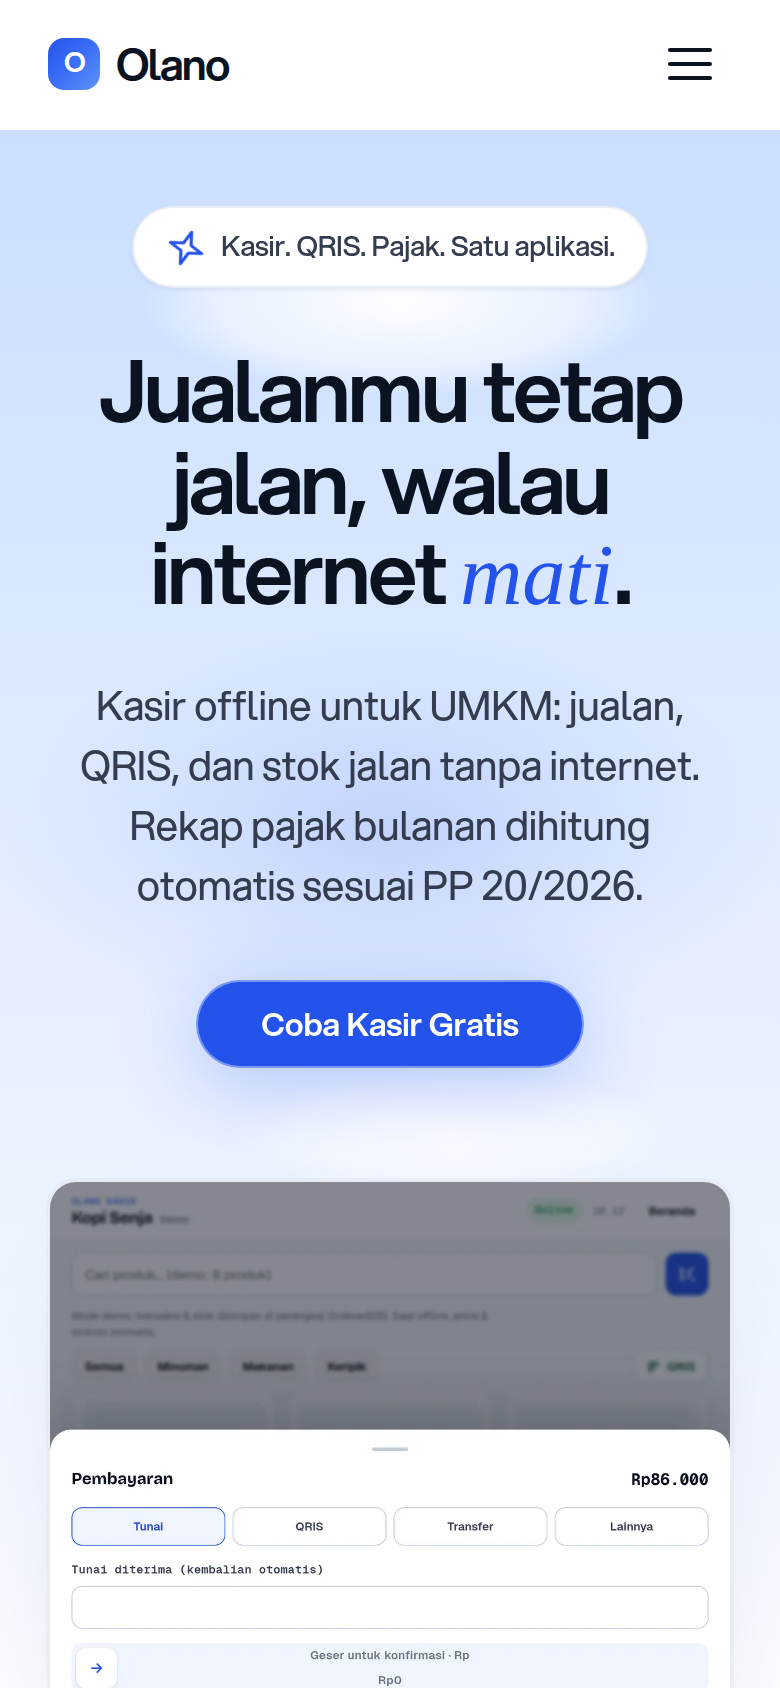
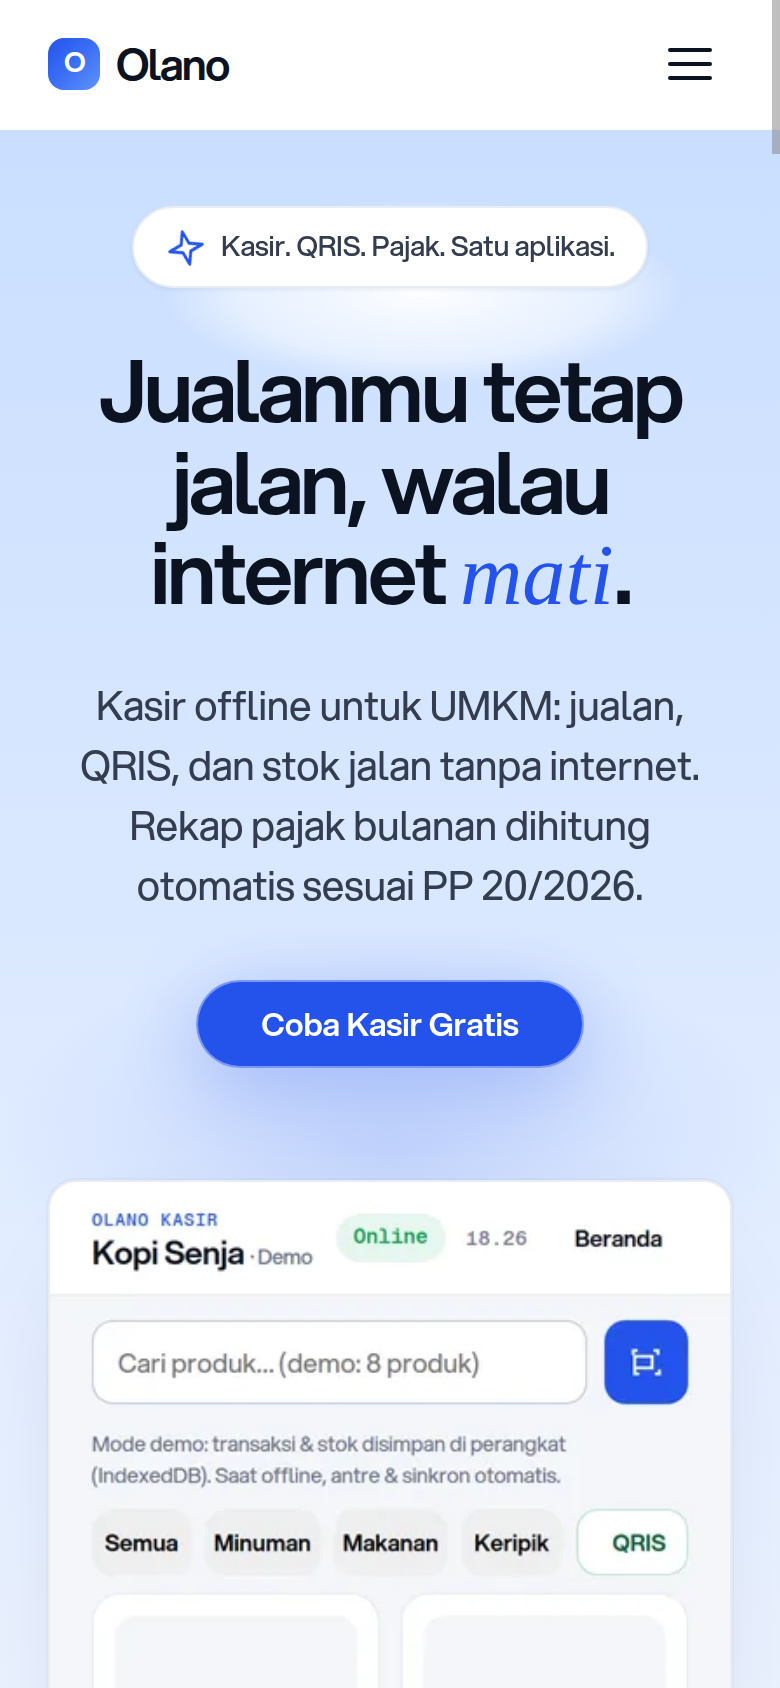
fix mobile: hero visual jadi screenshot kasir MOBILE (picture+srcset, 390px, 'Bayar Rp54.000'), aspect-ratio per-viewport biar CLS tetap 0; screenshot design-ref di-refresh dgn viewport beneran

diff --git a/index.html b/index.html
@@ -60,7 +60,10 @@
       <p class="sub">Kasir offline untuk UMKM: jualan, QRIS, dan stok jalan tanpa internet. Rekap pajak bulanan dihitung otomatis sesuai PP 20/2026.</p>
       <div class="cta-row"><a class="btn btn-primary pill btn-lg" href="kasir.html">Coba Kasir Gratis</a></div>
       <figure class="hero-visual">
-        <img src="assets/img/produk-kasir.webp" alt="Tampilan aplikasi kasir Olano: katalog produk, cart, dan sheet pembayaran (data contoh)" width="1180" height="962" fetchpriority="high">
+        <picture>
+          <source media="(max-width: 759px)" srcset="assets/img/produk-kasir-mobile.webp" type="image/webp">
+          <img src="assets/img/produk-kasir.webp" alt="Tampilan aplikasi kasir Olano: katalog produk, keranjang, dan tombol bayar (data contoh)" width="1180" height="962" fetchpriority="high">
+        </picture>
         <figcaption>Data contoh: tampilan aplikasi Olano</figcaption>
       </figure>
     </div>

diff --git a/assets/css/main.css b/assets/css/main.css
@@ -720,8 +720,9 @@ body.pos-app{background:var(--gray-50); min-height:100vh}
 @media(min-width:760px){.hero .sub{font-size:1.125rem;line-height:28px}}
 .hero .cta-row{margin-top:32px;display:flex;justify-content:center}
 .hero-visual{max-width:1180px;margin:56px auto 0;position:relative}
-.hero-visual img{width:100%;height:auto;border:1px solid var(--gray-100);border-radius:14px;background:#fff;
+.hero-visual img{width:100%;height:auto;aspect-ratio:1180/962;border:1px solid var(--gray-100);border-radius:14px;background:#fff;
   box-shadow:0 0 0 1px rgba(20,40,70,.03), 0 24px 64px -32px rgba(14,26,74,.18)}
+@media(max-width:759px){.hero-visual img{aspect-ratio:390/844}} /* gambar mobile 390x844, CLS tetap 0 */
 .hero-visual figcaption{font-size:12px;color:var(--gray-500);text-align:center;margin-top:12px}
 
 /* -- section: ritme ukur sokudo (80 desktop / 64 mobile), surface shift halus -- */
